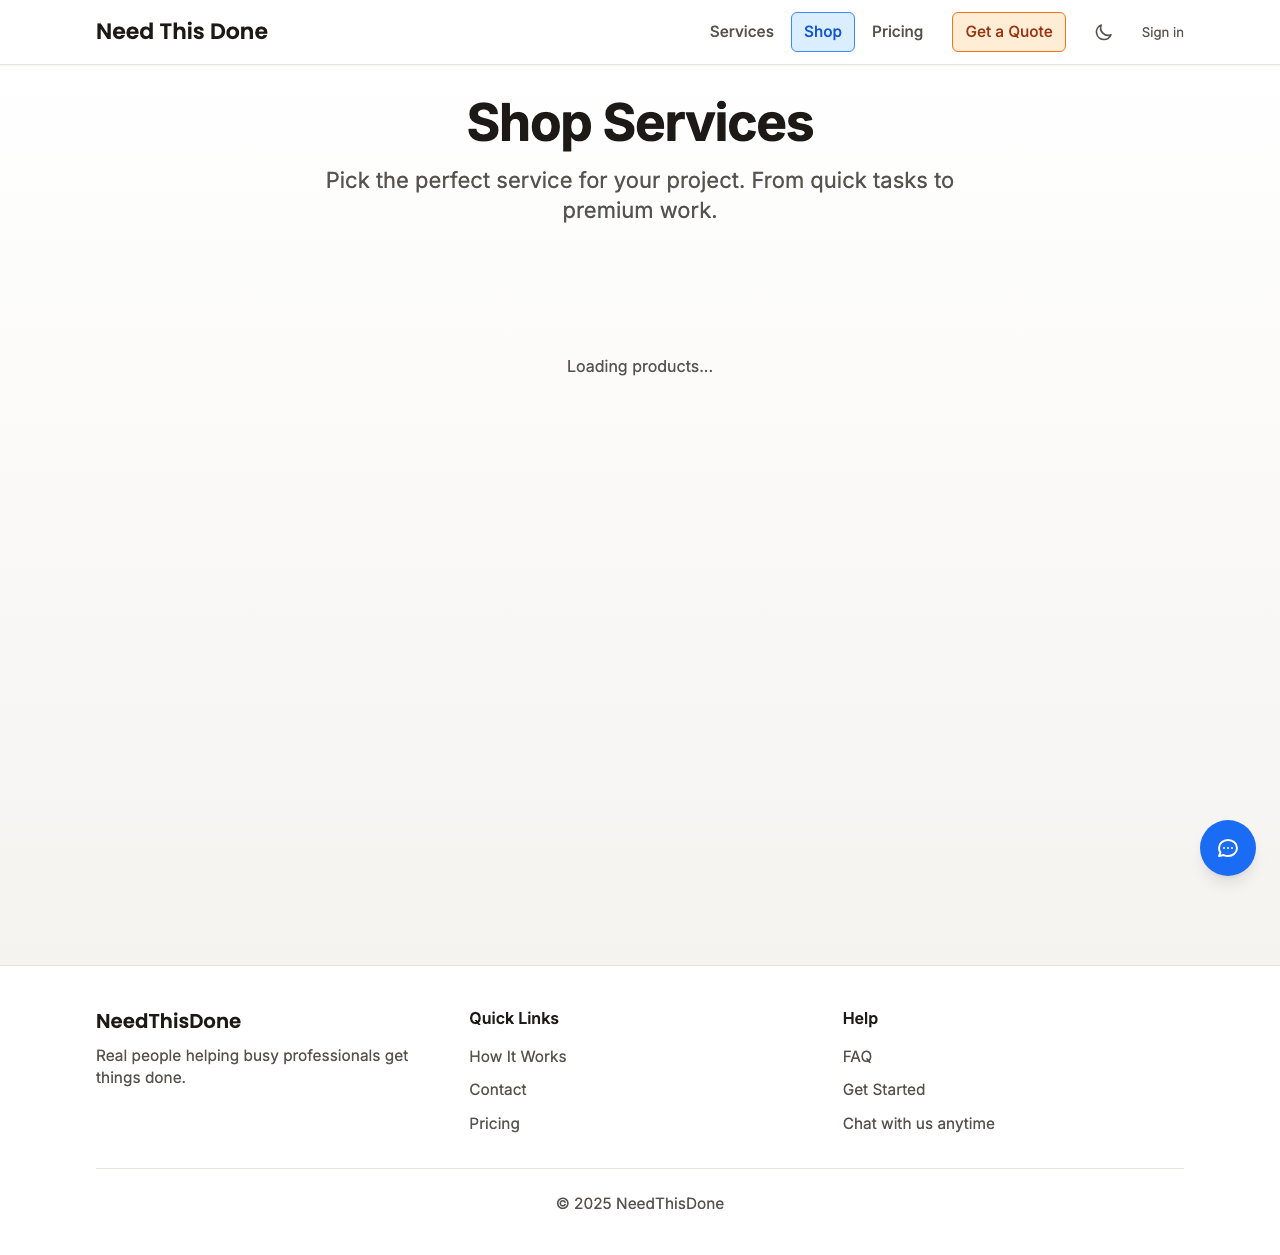
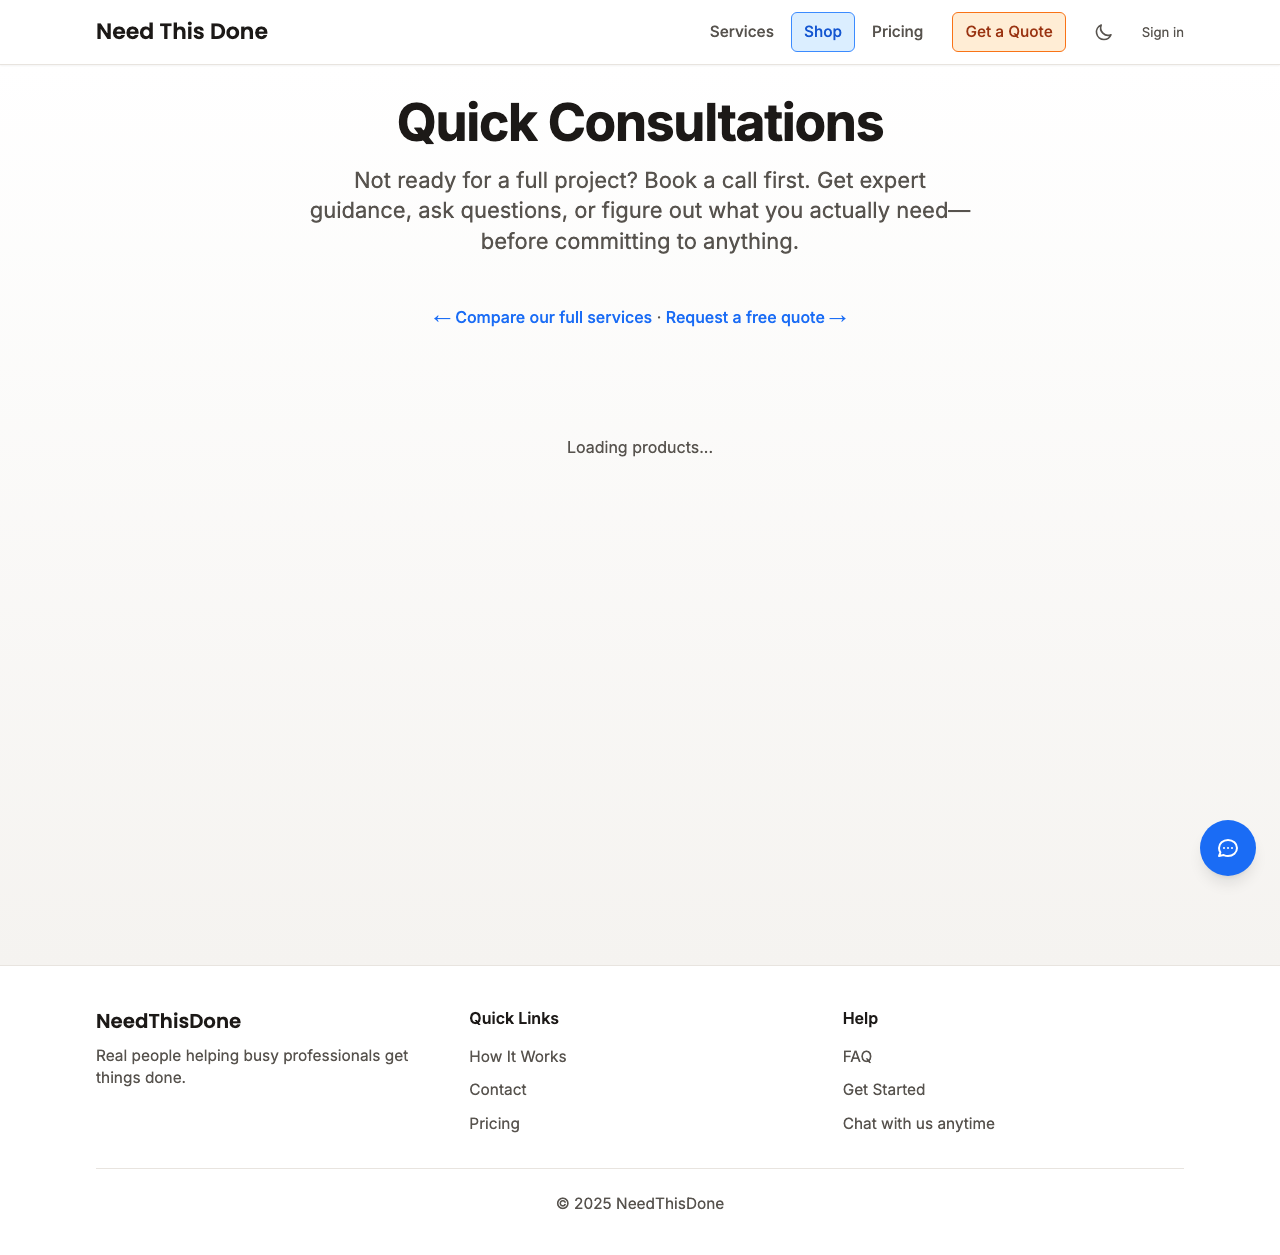
Harmonize messaging and navigation across pages
This connects all our pages with consistent, helpful cross-links so
visitors can easily find what they need—whether that's a quick
consultation, a free quote, or understanding our services. The FAQ
now gives specific pricing ranges that match our pricing page.

- Update FAQ with concrete pricing ($50/$150/$500+) and timeline (1-2 weeks)
- Rename Shop to "Quick Consultations" with links to Services and Contact
- Rename Contact to "Request a Free Quote" with link to consultations
- Add warmer login messaging and cross-links for new visitors
- Migrate UserDashboard to centralized color tokens for consistency

Now visitors won't hit dead ends—every page guides them to their
next step, whether they're exploring services or ready to get started.

Changed region(s): [[0.25, 0.0622, 0.75, 0.2175], [0.3438, 0.2486, 0.6562, 0.3108], [0.4375, 0.3418, 0.5312, 0.3729]]

diff --git a/app/components/UserDashboard.tsx b/app/components/UserDashboard.tsx
@@ -6,6 +6,7 @@ import Card from './Card';
 import ProjectCard from './ProjectCard';
 import ProjectDetailModal from './ProjectDetailModal';
 import { useDashboard, LoadingSkeleton, ErrorDisplay } from '@/hooks/useDashboard';
+import { headingColors, formInputColors, cardBgColors, dividerColors, statusBadgeColors } from '@/lib/colors';
 
 // ============================================================================
 // User Dashboard Component - View My Projects
@@ -74,11 +75,11 @@ export default function UserDashboard() {
           ==================================================================== */}
 
       <div>
-        <h1 className="text-3xl font-bold text-gray-900 dark:text-gray-100 mb-2">
+        <h1 className={`text-3xl font-bold ${headingColors.primary} mb-2`}>
           Your Projects
         </h1>
-        <p className="text-gray-600 dark:text-gray-400">
-          Here's where things stand. Click any project for details.
+        <p className={formInputColors.helper}>
+          Here&apos;s where things stand. Click any project for details.
         </p>
       </div>
 
@@ -91,17 +92,17 @@ export default function UserDashboard() {
       ) : loading ? (
         <LoadingSkeleton />
       ) : projects.length === 0 ? (
-        <div className="bg-white dark:bg-gray-800 rounded-xl p-12 border border-gray-200 dark:border-gray-700 text-center">
+        <div className={`${cardBgColors.base} rounded-xl p-12 border border-gray-200 dark:border-gray-700 text-center`}>
           <div className="w-16 h-16 mx-auto mb-4 rounded-full bg-gray-100 dark:bg-gray-700 flex items-center justify-center">
             <span className="text-2xl">📋</span>
           </div>
-          <h2 className="text-xl font-semibold text-gray-900 dark:text-gray-100 mb-2">
+          <h2 className={`text-xl font-semibold ${headingColors.primary} mb-2`}>
             Nothing here yet
           </h2>
-          <p className="text-gray-600 dark:text-gray-400 mb-2">
-            When you're ready to get something done, we'll be here.
+          <p className={`${formInputColors.helper} mb-2`}>
+            When you&apos;re ready to get something done, we&apos;ll be here.
           </p>
-          <p className="text-gray-500 dark:text-gray-500 text-sm mb-6">
+          <p className={`${formInputColors.helper} text-sm mb-6`}>
             Your projects will show up right here so you can track progress and stay in the loop.
           </p>
           <Button variant="purple" href="/contact" size="md">
@@ -140,7 +141,7 @@ export default function UserDashboard() {
 
       {projects.length > 0 && (
         <div className="text-center">
-          <p className="text-gray-600 dark:text-gray-400 mb-4">
+          <p className={`${formInputColors.helper} mb-4`}>
             Have another project in mind?
           </p>
           <Button variant="blue" href="/contact" size="md">
@@ -153,13 +154,13 @@ export default function UserDashboard() {
           My Orders Section
           ==================================================================== */}
 
-      <div className="mt-12 border-t border-gray-200 dark:border-gray-700 pt-8">
+      <div className={`mt-12 border-t ${dividerColors.border} pt-8`}>
         <div className="mb-6">
-          <h2 className="text-2xl font-bold text-gray-900 dark:text-gray-100 mb-2">
+          <h2 className={`text-2xl font-bold ${headingColors.primary} mb-2`}>
             My Orders
           </h2>
-          <p className="text-gray-600 dark:text-gray-400">
-            Your ecommerce purchases and order history
+          <p className={formInputColors.helper}>
+            Your purchases and order history
           </p>
         </div>
 
@@ -167,7 +168,7 @@ export default function UserDashboard() {
           <ErrorDisplay message={ordersError} />
         ) : ordersLoading ? (
           <div className="flex items-center justify-center py-8">
-            <p className="text-gray-600 dark:text-gray-400">Loading orders...</p>
+            <p className={formInputColors.helper}>Loading orders...</p>
           </div>
         ) : orders.length === 0 ? (
           <Card hoverEffect="none">
@@ -175,14 +176,14 @@ export default function UserDashboard() {
               <div className="w-16 h-16 mx-auto mb-4 rounded-full bg-gray-100 dark:bg-gray-700 flex items-center justify-center">
                 <span className="text-2xl">🛍</span>
               </div>
-              <h3 className="text-lg font-semibold text-gray-900 dark:text-gray-100 mb-2">
+              <h3 className={`text-lg font-semibold ${headingColors.primary} mb-2`}>
                 No orders yet
               </h3>
-              <p className="text-gray-600 dark:text-gray-400 mb-6">
-                When you make purchases, they'll appear here so you can track them.
+              <p className={`${formInputColors.helper} mb-6`}>
+                When you make purchases, they&apos;ll appear here so you can track them.
               </p>
               <Button variant="purple" href="/shop" size="md">
-                Browse Products
+                Browse Consultations
               </Button>
             </div>
           </Card>
@@ -193,10 +194,10 @@ export default function UserDashboard() {
                 <div className="p-4">
                   <div className="flex justify-between items-start">
                     <div className="flex-grow">
-                      <p className="font-semibold text-gray-900 dark:text-gray-100">
+                      <p className={`font-semibold ${headingColors.primary}`}>
                         Order #{order.medusa_order_id?.slice(0, 8)}
                       </p>
-                      <p className="text-sm text-gray-600 dark:text-gray-400">
+                      <p className={`text-sm ${formInputColors.helper}`}>
                         {new Date(order.created_at).toLocaleDateString()} at{' '}
                         {new Date(order.created_at).toLocaleTimeString([], {
                           hour: '2-digit',
@@ -205,16 +206,16 @@ export default function UserDashboard() {
                       </p>
                     </div>
                     <div className="text-right">
-                      <p className="text-lg font-semibold text-gray-900 dark:text-gray-100">
+                      <p className={`text-lg font-semibold ${headingColors.primary}`}>
                         ${(order.total / 100).toFixed(2)}
                       </p>
                       <span
                         className={`inline-block px-2 py-1 text-xs font-medium rounded mt-1 ${
                           order.status === 'completed'
-                            ? 'bg-green-100 dark:bg-green-900 text-green-800 dark:text-green-200'
+                            ? statusBadgeColors.completed
                             : order.status === 'pending'
-                            ? 'bg-yellow-100 dark:bg-yellow-900 text-yellow-800 dark:text-yellow-200'
-                            : 'bg-red-100 dark:bg-red-900 text-red-800 dark:text-red-200'
+                            ? statusBadgeColors.pending
+                            : statusBadgeColors.cancelled
                         }`}
                       >
                         {order.status}

diff --git a/app/app/login/page.tsx b/app/app/login/page.tsx
@@ -191,14 +191,14 @@ export default function LoginPage() {
         {/* Header */}
         <div className="text-center mb-8">
           <h1 className={`text-3xl font-bold ${headingColors.primary} mb-2`}>
-            {isForgotPassword ? 'Reset Password' : isSignUpMode ? 'Create Account' : 'Welcome Back'}
+            {isForgotPassword ? 'Reset Your Password' : isSignUpMode ? 'Join Us' : 'Welcome Back'}
           </h1>
           <p className={formInputColors.helper}>
             {isForgotPassword
-              ? 'Enter your email to receive a reset link'
+              ? "No worries—we'll send you a reset link"
               : isSignUpMode
-                ? 'Sign up to track your projects'
-                : 'Sign in to view your project status'}
+                ? 'Create an account to track your projects and stay in the loop'
+                : 'Good to see you! Sign in to check on your projects'}
           </p>
         </div>
 
@@ -373,14 +373,24 @@ export default function LoginPage() {
           </form>
         </div>
 
-        {/* Back Link */}
-        <div className="text-center mt-6">
+        {/* Helpful Links */}
+        <div className="text-center mt-6 space-y-2">
           <Link
             href="/"
             className={`${titleColors.green} hover:underline text-sm`}
           >
-            Back to Home
+            ← Back to Home
           </Link>
+          <p className={`text-sm ${formInputColors.helper}`}>
+            New here?{' '}
+            <Link href="/services" className={`${titleColors.blue} hover:underline`}>
+              See what we do
+            </Link>
+            {' · '}
+            <Link href="/contact" className={`${titleColors.blue} hover:underline`}>
+              Get a free quote
+            </Link>
+          </p>
         </div>
     </div>
   );

diff --git a/app/e2e/service-modals.spec.ts b/app/e2e/service-modals.spec.ts
@@ -127,16 +127,11 @@ test.describe('Service Modals - Contrast & Accessibility', () => {
         const textRgb = parseRgb(textColor);
         const bgRgb = parseRgb(bgColor);
 
-        // Debug output
-        console.log(`[Light Mode - ${service.name}] Text: ${textColor} -> ${JSON.stringify(textRgb)}`);
-        console.log(`[Light Mode - ${service.name}] Background: ${bgColor} -> ${JSON.stringify(bgRgb)}`);
-
         expect(textRgb).toBeTruthy();
         expect(bgRgb).toBeTruthy();
 
         if (textRgb && bgRgb) {
           const ratio = getContrastRatio(textRgb, bgRgb);
-          console.log(`[Light Mode - ${service.name}] Contrast ratio: ${ratio.toFixed(2)}:1`);
           // WCAG AA requires 4.5:1 for normal text
           expect(ratio).toBeGreaterThanOrEqual(WCAG_AA_NORMAL_TEXT);
         }
@@ -211,16 +206,11 @@ test.describe('Service Modals - Contrast & Accessibility', () => {
         const textRgb = parseRgb(textColor);
         const bgRgb = parseRgb(bgColor);
 
-        // Debug output
-        console.log(`[Dark Mode - ${service.name}] Text: ${textColor} -> ${JSON.stringify(textRgb)}`);
-        console.log(`[Dark Mode - ${service.name}] Background: ${bgColor} -> ${JSON.stringify(bgRgb)}`);
-
         expect(textRgb).toBeTruthy();
         expect(bgRgb).toBeTruthy();
 
         if (textRgb && bgRgb) {
           const ratio = getContrastRatio(textRgb, bgRgb);
-          console.log(`[Dark Mode - ${service.name}] Contrast ratio: ${ratio.toFixed(2)}:1`);
           // WCAG AA requires 4.5:1 for normal text
           expect(ratio).toBeGreaterThanOrEqual(WCAG_AA_NORMAL_TEXT);
         }

diff --git a/app/lib/default-page-content.ts b/app/lib/default-page-content.ts
@@ -118,13 +118,13 @@ export const defaultFAQContent: FAQPageContent = {
     {
       question: 'How long does a typical task take?',
       answer:
-        'Most tasks are completed within a few days to a week. Larger projects may take longer, but we always provide a clear timeline upfront so you know what to expect. Learn more about how it works.',
+        'Most projects are completed within 1-2 weeks, depending on scope. Quick tasks can be done in days, while bigger builds may take longer. We always provide a clear timeline upfront so you know what to expect. Learn more about how it works.',
       links: [{ text: 'how it works', href: '/how-it-works' }],
     },
     {
       question: 'How much does it cost?',
       answer:
-        "Pricing depends on the scope and complexity of your task. Check out our pricing page for general ranges. We provide transparent quotes with no hidden fees—tell us what you need, and we'll give you a clear estimate before any work begins.",
+        "Pricing depends on complexity, not service type. Quick tasks across any service start at $50. Standard projects that need more steps run $150+. Bigger builds like full websites or complex data migrations start at $500+. Check out our pricing page for details. We provide transparent quotes with no hidden fees—tell us what you need, and we'll give you a clear estimate before any work begins.",
       links: [{ text: 'pricing page', href: '/pricing' }],
     },
     {

diff --git a/app/app/shop/page.tsx b/app/app/shop/page.tsx
@@ -78,9 +78,20 @@ export default function ShopPage() {
     <div className="max-w-6xl mx-auto px-4 sm:px-6 md:px-8 py-8">
       {/* Header */}
       <PageHeader
-        title="Shop Services"
-        description="Pick the perfect service for your project. From quick tasks to premium work."
+        title="Quick Consultations"
+        description="Not ready for a full project? Book a call first. Get expert guidance, ask questions, or figure out what you actually need—before committing to anything."
       />
+
+      {/* Back link to services */}
+      <p className={`text-center mb-6 ${formInputColors.helper}`}>
+        <Link href="/services" className={`font-medium ${linkHoverColors.blue}`}>
+          ← Compare our full services
+        </Link>
+        {' · '}
+        <Link href="/contact" className={`font-medium ${linkHoverColors.blue}`}>
+          Request a free quote →
+        </Link>
+      </p>
 
       {/* Cart item count indicator */}
       {itemCount > 0 && (

diff --git a/app/app/contact/page.tsx b/app/app/contact/page.tsx
@@ -157,9 +157,16 @@ export default function ContactPage() {
 
         {/* Header */}
         <PageHeader
-          title="Let's Talk"
-          description="Tell us what you need help with. We'll get back to you within 2 business days—no pressure, no spam."
+          title="Request a Free Quote"
+          description="Tell us what you need help with and we'll send you a personalized quote within 2 business days—no commitment, no spam. Just a friendly estimate so you know exactly what to expect."
         />
+
+        {/* Quick links */}
+        <p className={`text-center mb-6 ${formInputColors.helper}`}>
+          <Link href="/shop" className={`font-medium hover:underline ${titleColors.purple}`}>
+            Need help now? Book a quick consultation →
+          </Link>
+        </p>
 
         {/* Contact Form */}
         <Card className="mb-10">
